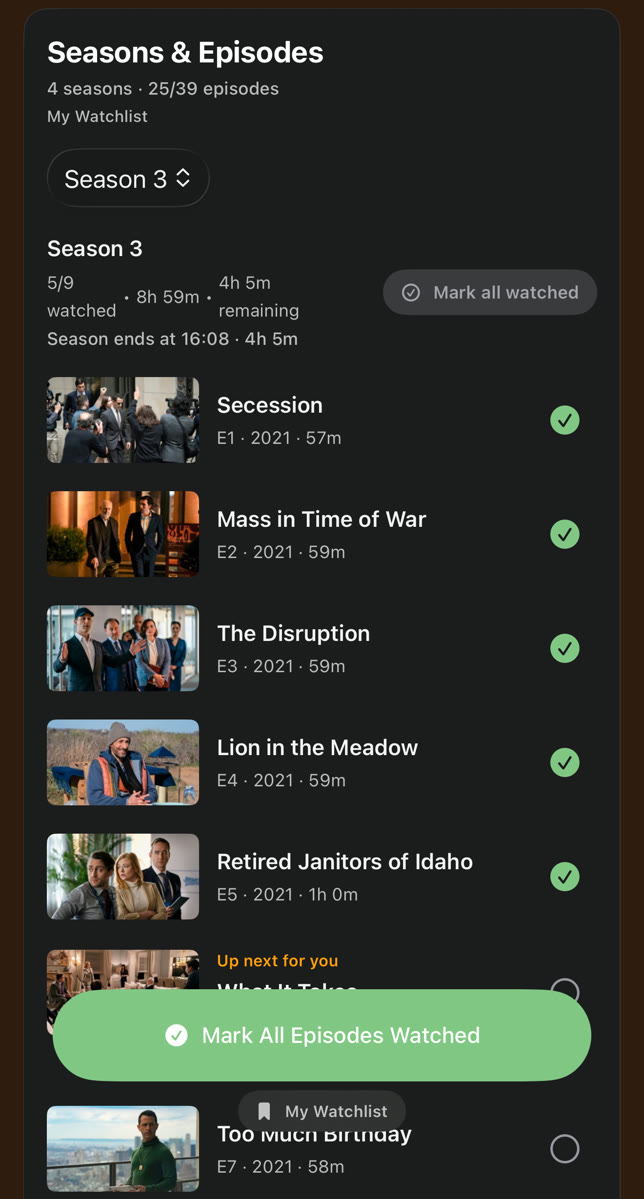
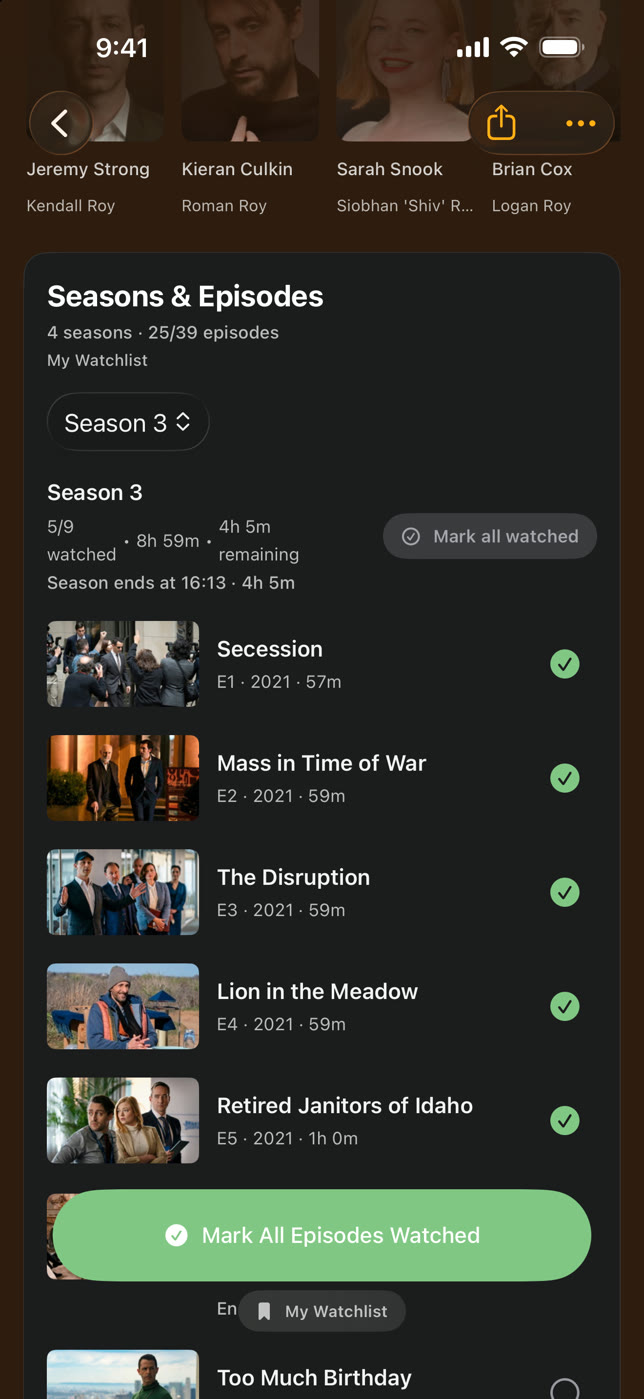
Real-looking status bars, iPad in both orientations
Full screenshots again, with the status bar overridden to match a real
device (white battery at 100%, full signal) instead of the charging look.
Landscape iPad beside the iPhone in the hero; portrait iPad for Details.

diff --git a/index.html b/index.html
@@ -61,10 +61,10 @@
 
         <div class="hero-shot">
           <figure class="shot shot-tablet">
-            <img src="shots/ipad-watchlist.jpg" width="1800" height="1265" alt="Watchlist Binge on iPad: a grid of posters, each show marked with how much of it has been watched" fetchpriority="high">
+            <img src="shots/ipad-landscape.jpg" width="1800" height="1073" alt="Watchlist Binge on iPad in landscape: the sidebar beside a grid of posters, each show marked with how much of it has been watched" fetchpriority="high">
           </figure>
           <figure class="shot shot-phone">
-            <img src="shots/iphone-watchlist.jpg" width="644" height="1316" alt="The same watchlist on iPhone">
+            <img src="shots/iphone-watchlist.jpg" width="644" height="1399" alt="The same watchlist on iPhone">
           </figure>
         </div>
       </div>
@@ -87,7 +87,7 @@
           </ul>
         </div>
         <figure class="shot shot-phone">
-          <img src="shots/iphone-episodes.jpg" width="644" height="1199" loading="lazy" alt="Season 3 of Succession: five of nine episodes watched, 4 hours 5 minutes remaining, the time the season would end, and the episode that's up next">
+          <img src="shots/iphone-episodes.jpg" width="644" height="1399" loading="lazy" alt="Season 3 of Succession: five of nine episodes watched, 4 hours 5 minutes remaining, the time the season would end, and the episode that's up next">
         </figure>
       </div>
     </section>
@@ -108,8 +108,8 @@
             <li><svg viewBox="0 0 24 24" fill="none" stroke="currentColor" stroke-width="2" stroke-linecap="round" stroke-linejoin="round" aria-hidden="true"><path d="M4 12l5 5L20 6"/></svg><span><strong>Light or dark</strong>, whichever you watch in</span></li>
           </ul>
         </div>
-        <figure class="shot shot-phone">
-          <img src="shots/iphone-detail.jpg" width="644" height="1316" loading="lazy" alt="Succession's page: rating, genres, a trailer and release details">
+        <figure class="shot shot-tablet">
+          <img src="shots/ipad-detail.jpg" width="1000" height="1333" loading="lazy" alt="Succession's page on iPad: rating, genres, a trailer and release details">
         </figure>
       </div>
     </section>

diff --git a/style.css b/style.css
@@ -275,8 +275,22 @@ p {
 .shot img {
   width: 100%;
   border: 1px solid var(--border-strong);
-  border-radius: var(--radius-lg);
   box-shadow: 0 30px 80px -30px rgba(0, 0, 0, 0.9);
+}
+
+/* Full screenshots, status bar included, with the corners of the screen they came from. */
+.shot-phone img {
+  border-radius: 12.5% / 5.75%;
+}
+
+.shot-tablet img {
+  border-radius: 14px;
+}
+
+.split .shot-tablet {
+  width: 100%;
+  max-width: 520px;
+  justify-self: center;
 }
 
 .hero-shot .shot-tablet {
@@ -285,7 +299,7 @@ p {
 }
 
 .hero-shot .shot-phone {
-  flex: 0 0 23%;
+  flex: 0 0 20.5%;
 }
 
 /* Sections */

diff --git a/README.md b/README.md
@@ -16,7 +16,11 @@ Apple TV+ artwork; App Review rejected a build over Toy Story art, and this page
 URL, so keep using that library.
 
 - Dark only: light screens glare on this dark page.
-- Cropped below the status bar. Don't use `simctl status_bar override` (fake 9:41) shots here.
+- Full screens, status bar included, overridden to look like a real device: 9:41, full Wi-Fi
+  and cellular bars, white battery at 100% (`--batteryState discharging --batteryLevel 100`).
+  A charging battery (green with a bolt) looks fake. iPad: same, without the cellular flags.
+- iPad in both orientations: landscape (sidebar) in the hero, portrait for Details.
+- Flat, side by side. Never stack one screenshot on another.
 - Shown flat with a thin edge: no device frames, no tilt, nothing stacked on top of anything else.
 
 When the app is live, swap the "Coming soon" copy for an App Store link
